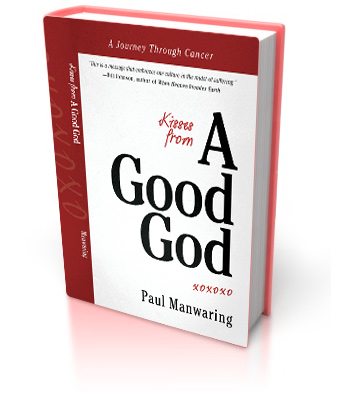
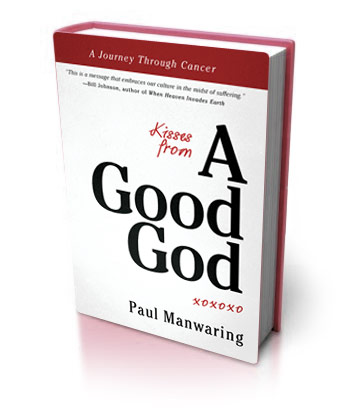
Better image and ref code

diff --git a/app/models/product.rb b/app/models/product.rb
@@ -35,7 +35,7 @@ class Product < ActiveRecord::Base
   private
   
   def add_ref_to_url
-    self.url = url + "?ref=123" unless url.end_with?("?ref=123")
+    self.url = url + "?ref=12" unless url.end_with?("?ref=12")
   end
   
   def set_featured_flag
